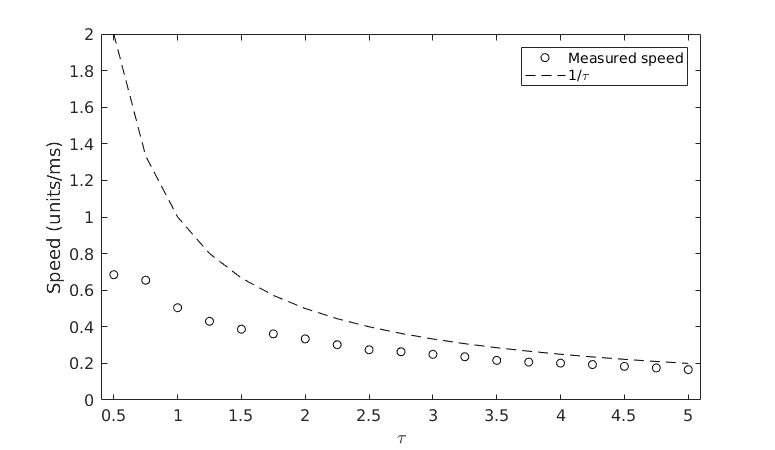
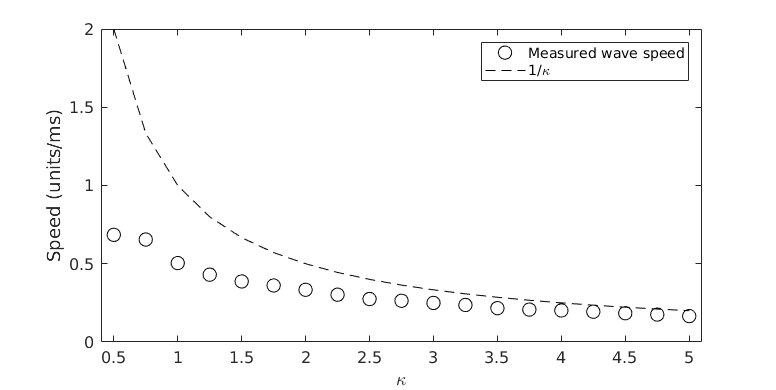
Improved section on wave propagation speed

diff --git a/sync_paper/Delay synchronization.tex b/sync_paper/Delay synchronization.tex
@@ -9,6 +9,7 @@
 \usepackage[font=scriptsize]{subcaption}
 \usepackage{wrapfig}
 \usepackage[backend=biber]{biblatex}
+\usepackage[section]{placeins}
 
 \addbibresource{nn.bib}
 \renewcommand\thesubsection{\alph{subsection}}
@@ -25,7 +26,7 @@
 \begin{abstract}
 Traveling waves of neural activity in the cortex have been observed in vivo.
 These traveling waves explain various features of observed cortical dynamics including spike timing variability and correlated fluctuations in neuron membrane potential.
-To undertand networks of neurons as a medium for wave propagation we explore a one-dimensional network of neurons with biologically influenced models of neuron dynamics and connectivity.
+To understand networks of neurons as a medium for wave propagation we explore a one-dimensional network of neurons with biologically influenced models of neuron dynamics and connectivity.
 We find that background stimulus reliably evokes traveling waves in networks with local connectivity between neurons.
 We also observe traveling waves in fully-connected networks when a model for action potential propagation speed is incorporated.
 The biological properties of the neurons influence the generation, annihilation and propagation of the traveling waves. 
@@ -198,28 +199,15 @@ Finally, we investigate the initiation of traveling waves from a uniform backgro
  \begin{tabularx}{\textwidth}{l | X | c | c | c | c | c | r}
   \textbf{Section} & \textbf{Topology} & \textbf{$\lambda$} & \textbf{E/I} & \textbf{M} & \textbf{K} & \textbf{$\kappa$} \\
   \hline
-  Baseline & $2x2x100$ & $2.5$ & $80\%$ & $5$ & $5$ & $1$ \\ 
-  a & $2x2x100$ & $2.5$ & $80\%$ & $5$ & $\textbf{2-6}$ & $1$ \\ 
-  b & $2x2x100$ & $\infty$ & $80\%$ & $5$ & $5$ & $\textbf{0,1}$ \\ 
-  c & $2x2x100$ & $2.5$ & $\textbf{0-100}\%$ & $5$ & $5$ & $1$ \\ 
-  d & $\textbf{(2x2,2x3,3x3)x100}$ & $2.5$ & $80\%$ & $5$ & $5$ & $\textbf{1-5}$ \\ 
-  e & $2x2x50$ & $2.5$ & $\textbf{80\% , 99+\%}$ & $5$ & $5$ & $1$ \\ 
+  a & $2x2x100$ & $2.5$ & $80\%$ & $5$ & $\textbf{3-12}$ & $1$ \\ 
+  b & $2x2x100$ & $\infty$ & $80\%$ & $5$ & $10$ & $\textbf{0,1}$ \\ 
+  c & $2x2x100$ & $2.5$ & $\textbf{0-100}\%$ & $5$ & $10$ & $1$ \\ 
+  d & $\textbf{(2x2,2x3,3x3)x100}$ & $2.5$ & $80\%$ & $5$ & $24$ & $\textbf{1-5}$ \\ 
+  e & $2x2x50$ & $2.5$ & $\textbf{80\% , 99+\%}$ & $5$ & $10$ & $1$ \\ 
  \end{tabularx}
 \end{table}
 
-We first present a baseline experiment with uniform background stimulus to illustrate wave behavior. 
-The firing events in the experiment are plotted in Figure \ref{fig:baseline}.
-We note the visually well-defined traveling waves in the column, with waves being consistently initiated from approximate column positions 15, 32, 52, 70 and 90.
-The waves propagate until they interact with another traveling wave or reach the ends of the column.
-We observe that traveling waves annihilate each other when they meet.
-The annihilation effects can be explained by the refractory period of the neurons.
-Neurons that are activated by one traveling wave will be hyperpolarized and less likely to fire if another traveling waves arrives within a short time period.
-\begin{figure}[!ht]
- \centering
- \caption{Baseline traveling wave experiment with uniform stimulus.}
- \includegraphics[width=\textwidth]{fig/baseline}
- \label{fig:baseline}
-\end{figure}
+\FloatBarrier
 
 \subsection{Connectivity} \label{sub:connectivity}
 We first investigate the impact of connectivity on traveling wave formation.
@@ -227,7 +215,7 @@ We varied the connection strength parameter $K$ and observed the conditions unde
 We performed 100 simulations each of values of $K$ from $3$ to $12$ and determined the wave firing fraction as described in methods (Figure \ref{fig:conn_fraction}).
 Below $K=3.5$ no traveling waves are detected.
 We observe the transition around $K=5$ where traveling waves are observed but most of the firing events are still random.
-The wave firing fraction is porportional to $K$, indicating that traveling waves dominate the firing activity as the neurons become more strongly connected.
+The wave firing fraction is proportional to $K$, indicating that traveling waves dominate the firing activity as the neurons become more strongly connected.
 At $K>11$ more than $90\%$ of the firing events are part of a traveling wave.
 \begin{figure}[!ht]
  \caption{Traveling waves emerge around $K=5$. As the connection strength increases the traveling waves dominate all firing events in the column.}
@@ -237,7 +225,7 @@ At $K>11$ more than $90\%$ of the firing events are part of a traveling wave.
 \end{figure}
 
 \subsection{Delay} \label{sub:delay}
-To investigate the impact of delay we simulate a column with complete connectivity corresponing to $\lambda \rightarrow \infty$: all neurons are connected with probability 1 to all other neurons.
+To investigate the impact of delay we simulate a column with complete connectivity corresponding to $\lambda \rightarrow \infty$: all neurons are connected with probability 1 to all other neurons.
 This is analogous to the original Izhikevich simulation \cite{izzy_code} that demonstrated synchronized firing in a completely connected neural field with random background stimulus.
 We first simulated the column with a fixed action potential propagation delay of $1~ms$ regardless of inter-neuron distance.
 The result was highly synchronized simultaneous firing among all neurons in the column.
@@ -245,13 +233,15 @@ We then incorporated our distance-dependent action potential propagation with th
 The firing is still highly synchronized, but traveling waves are now evident (Figure \ref{fig:delay_waves}).
 This demonstrates that one dimensional traveling waves can emerge from fully-connected networks if the propagation time is proportional to the inter-neuron distance.
 \begin{figure}[!ht]
- \caption{Left: with global connectivity and no action potential propagation delay, the entire structure shows synchornized firing events. Right: With an action potential propagation delay, traveling wave behavior is observed.}
+ \caption{Left: with global connectivity and no action potential propagation delay, the entire structure shows synchronized firing events. Right: With an action potential propagation delay, traveling wave behavior is observed.}
  \centering
    \includegraphics[width=\textwidth]{fig/DelayWaves}  
  \label{fig:delay_waves}
 \end{figure}
 Previous work (\cite{ermentrout2001}, Figure 1) classifies several architectures for apparent traveling waves in the cortex.
 One architecture, ''Delayed Excitations from a Single Oscillator``, is a periodic source driving a sequence of excitable neurons with increasing time delays, but no connectivity between the neurons.
+
+\FloatBarrier
 
 \subsection{Excitatory/Inhibitory Balance} \label{sub:ei_balance}
 The excitatory/inhibitory balance is known to have a significant impact on neural network dynamics \cite{keane2015}. 
@@ -270,20 +260,76 @@ When all neurons are excitatory the traveling waves are the dominant mode of fir
    \includegraphics[width=\textwidth]{fig/ExcitatoryWaves}
 \end{figure}
 
+\FloatBarrier
+
 \subsection{Propagation speed} \label{sub:propagation_speed}
-To examine the velocity of the traveling waves we performed 50 velocity for measurements for two parameters of interest.
-We varied the propagation delay constant $\kappa$ from (1 to 4) and the cross section of the column (2x2, 2x3, 3x3).
-The results are shown in Figure \ref{fig:delay_topology}.
+Cortical traveling waves have been observed with propagating speeds from 0.1 to 0.8 meters per second \cite{muller2018}.
+The speed of our traveling waves are determined by a variety of factors including action potential delay parameter $\kappa$, characteristic connection length $\lambda$, and the column topology.
+The waves slow down as $\kappa$ increases, they speed up as $\lambda$ increases, and they speed up as the column cross-section increases.
+
+Observed wave speeds in the cortex are consistent with the action potential propagation speed in the gray matter found within the cortex, suggesting that action potential propagation is an important factor determining wave speed.
+In our framework the delay parameter $\kappa$ controls the action potential propagation time. 
+We find that the propagation speed is inversely related to $\kappa$ (Figure \ref{fig:delay_speed}).
+If wave speed was determined solely by the action potential propagation time we would expect the speed to go as $1/\kappa$, but this relationship does not hold.
+Furthermore, the wave speeds seem to be limited to less than 0.7 units/millisecond as $\kappa \rightarrow 0$.
+We suggest that the limit on wave speed is due in part to the neuron dynamics. 
+As we discuss below, our neurons take time to spike after receiving a stimulus that displaces the neuron from equilibrium.
+This inherent delay places a speed limit on the traveling waves.
+
 \begin{figure}[!htb]
- \caption{Wave speed is inversely proportional to $\kappa$ as expected. Wave speed also increases with the column cross-section.Mean values with $1\sigma$ error bars, 50 trials per measurement.}
- \label{fig:delay_topology}
+ \caption{Wave speed (circles) is inversely related to $\kappa$, but does not go as $1/\kappa$ (dashed line). The measured results do approach $1/\kappa$ at higher values. Data is averaged over 100 trials per value of $\kappa$}
+ \label{fig:delay_speed}
  \centering
-   \includegraphics[width=0.75\textwidth]{fig/WaveSpeed_DelayTopology}
+   \includegraphics[width=\textwidth]{fig/WaveSpeed_Delay}
 \end{figure}
 
-We see that both the delay constant and the column topology influence the propagation speed.
-Increasing the inter-neuron action potential delay slows the traveling wave propagation.
-Waves travel faster in columns with larger cross-sections. 
+\FloatBarrier
+
+Propagation speed is also determined by the characteristic length of the local connectivity, $\lambda$.
+We measured wave speeds in a 2x2x50 column with $\kappa=1$  and varied $\lambda$ from 2 to 5.
+At $\lambda<2.5$ traveling waves were not observed.
+Longer ranger connections allow a spike from a presynaptic neuron to elicit spikes from postsynaptic neurons that are farther away (Figure \ref{fig:delay_lambda}).
+This facilitates faster traveling wave propagation.
+QUESTION: why is the slope 1/4, instead of 1??
+\begin{figure}[!htb]
+ \caption{ Wave speed increases with the characteristic local connection length $\lambda$ (circles). .Data is averaged over 20 trials for each value of $\lambda$.}
+ \label{fig:delay_lambda}
+ \centering
+   \includegraphics[width=\textwidth]{fig/WaveSpeed_Lambda}
+\end{figure}
+
+\FloatBarrier
+
+We have found that the topology of the column also influences wave speed. 
+We measured wave speeds in a column with $\kappa=1$ and $\lambda=2.5$ with cross sections from 2x2 to 4x4.
+Waves travel faster in thicker columns with a larger cross-section (Figure \ref{fig:delay_topology}).
+Thicker columns have more neurons and connections per unit length.
+This leads to each neuron receiving a stronger stimulus from the passing wave.
+\begin{figure}[!htb]
+ \caption{ Waves propagate faster in thicker columns. Data is averaged over 10 trials per column topology.}
+ \label{fig:delay_topology}
+ \centering
+   \includegraphics[width=\textwidth]{fig/WaveSpeed_Topology}
+\end{figure}
+
+The input current may push the neuron's dynamical system out of equilibrium and cause a spike, but the system dynamics take some time to evolve.
+Therefore the spike will occur with some delay after the stimulus.
+This is a common behavior in any multidimensional model of neuron dynamics, but it is not captured by the leaky integrate-and-fire model used in much of the previous research \cite{keane2015}\cite{senk2020}.
+We tested this spike delay by exposing populations of excitatory and inhibitory neurons to current steps of different magnitudes \cite{izhikevich}.
+The average firing delay of the excitatory and inhibitory neurons is shown in Figure \ref{fig:delay_neurondynamics}.
+The inhibitory neurons have a lower firing threshold than the excitatory neurons and fire with a shorter delay when given the same stimulus.
+Both excitatory and inhibitory neurons can take over $10ms$ to fire when the spike is elicited by a weak stimulus.
+\begin{figure}[!htb]
+ \caption{ A stronger stimulus creates a spike with less delay. The excitatory neurons have a higher firing threshold than the inhibitory neurons and do not emit a spike for very weak stimulus.}
+ \label{fig:delay_neurondynamics}
+ \centering
+   \includegraphics[width=\textwidth]{fig/WaveSpeed_NeuronDynamics}
+\end{figure}
+
+This explains the correlation between wave speed and column thickness.
+Neurons in the thicker columns receive a stronger stimulus from the passing wave and therefore fire with a shorter delay, leading to faster wave propagation.
+
+\FloatBarrier
 
 \subsection{Wave Initiation and Density} \label{sub:wave_initiation}
 We have observed preferential wave initiation sites in our experiments.
@@ -333,6 +379,7 @@ The wave density at $Z=40$ is the minimum density within the traveling wave, con
    \includegraphics[width=\textwidth]{fig/SingleLTSInhibit}
 \end{figure}
 
+\FloatBarrier
 
 \section{Discussion}
 We have demonstrated that representative neural structures can support traveling waves in one dimension.
@@ -348,7 +395,7 @@ The column topology can also influence the propagation speed.
 Columns with a larger cross-section have a larger number of neurons and synapses for a given length, providing more pathways for the traveling wave to propagate.
 The propagation delay parameter $\kappa$ does effect the wave propagation as expected, but the effect is not linear.
 If the traveling wave velocity was determined by the action potential propagation speed we would expect to see wave velocity of 1000 units/second with $\kappa=1$.
-Instead the wave velocity is less than half the simple prediction (Figure \ref{fig:delay_topology}).
+Instead the wave velocity is less than half the simple prediction (Figure \ref{fig:delay_speed}).
 A four-fold increase in $\kappa$ does not reduce the traveling wave propagation speed by a factor of 4. 
 
 The column topology also has a significant impact on wave propagation speed, with waves in the thinner 2x2 columns traveling about $25\%$ slower than in the 3x3 column.

diff --git a/sim/lsm/FiringDelayTest.m b/sim/lsm/FiringDelayTest.m
@@ -1,0 +1,124 @@
+clear all; close all;
+
+rng(42); %Seed random for consistent results
+
+width = 2;
+height = 2;
+layers = 100;
+N = width*height*layers;
+N_layer = width*height;
+
+%Column parameters
+structure.width = width;
+structure.height = height;
+structure.layers = layers;
+structure.displacement = 0.0;
+
+connectivity.percentExc = 1;
+connectivity.connType = 1;
+connectivity.lambda = 2.5;
+connectivity.maxLength = 100;
+connectivity.connStrength = 0; %Disconnected neurons, we just want the stimulus response
+
+dt = 0.1;
+tmax = 200;
+t = 0:dt:tmax;
+
+delay.delayType = 1;
+delay.delayMult = 1;
+delay.delayFrac = 1.0;
+delay.dt = dt;
+
+vall = []; uall = [];
+
+currentStepMag = 1:15;
+
+%Make column
+[a,b,c,d, S, delays, ecn] = makeColumnParameters(structure, connectivity, delay);
+    
+fdelExc = [];
+for jj=1:length(currentStepMag)
+    %Step stimulus to all neurons at t=100 milliseconds
+    stImpulse = zeros(N, size(t,2));
+    sidx = 100/dt;
+    stImpulse(:, sidx:end)= currentStepMag(jj);
+    stImpulse = (interp1(0:tmax, stImpulse(:,1:1/dt:end)', 0:dt:tmax))';    
+
+    %Simulate column
+    vinit=-65*ones(N,1)+0*rand(N,1);    % Initial values of v
+    uinit=b.*vinit;                 % Initial values of u
+
+    %Column impulse response
+    [v, vall, u, uall, firings] = izzy_net(vinit,uinit,dt, length(t), a, b, c, d, S, delays, stImpulse);
+    figure(5); subplot(2,1,1);
+    plot(firings(:,1)./1000, firings(:,2)/(N_layer),'k.');
+    xlim([0.09 0.12]);
+    ylabel('Z position', 'FontSize', 12)
+    subplot(2,1,2);
+    plot(t./1000, mean(stImpulse), 'kx');
+    xlim([0.09 0.12]);
+    xlabel('Time (seconds)','FontSize',12)
+    ylabel('Input (mV)')
+    set(gca, 'FontSize',12)
+
+    fireDelays = [];
+    for kk=1:N
+        fi = find(firings(:,2)==kk);
+        fi = firings(fi,1);
+        fi = min(fi);
+        if ~isempty(fi)
+           fireDelays = [fireDelays  fi];
+        end
+    end
+    
+    fdelExc(jj) = mean(fireDelays);
+end
+
+%Make column
+connectivity.percentExc = 0; %All inhibitory neurons
+[a,b,c,d, S, delays, ecn] = makeColumnParameters(structure, connectivity, delay);
+    
+fdelInhb = [];
+for jj=1:length(currentStepMag)
+    %Step stimulus to all neurons at t=100 milliseconds
+    stImpulse = zeros(N, size(t,2));
+    sidx = 100/dt;
+    stImpulse(:, sidx:end)= currentStepMag(jj);
+    stImpulse = (interp1(0:tmax, stImpulse(:,1:1/dt:end)', 0:dt:tmax))';    
+
+    %Simulate column
+    vinit=-65*ones(N,1)+0*rand(N,1);    % Initial values of v
+    uinit=b.*vinit;                 % Initial values of u
+
+    %Column impulse response
+    [v, vall, u, uall, firings] = izzy_net(vinit,uinit,dt, length(t), a, b, c, d, S, delays, stImpulse);
+    figure(5); subplot(2,1,1);
+    plot(firings(:,1)./1000, firings(:,2)/(N_layer),'k.');
+    xlim([0.09 0.12]);
+    ylabel('Z position', 'FontSize', 12)
+    subplot(2,1,2);
+    plot(t./1000, mean(stImpulse), 'kx');
+    xlim([0.09 0.12]);
+    xlabel('Time (seconds)','FontSize',12)
+    ylabel('Input (mV)')
+    set(gca, 'FontSize',12)
+
+    fireDelays = [];
+    for kk=1:N
+        fi = find(firings(:,2)==kk);
+        fi = firings(fi,1);
+        fi = min(fi);
+        if ~isempty(fi)
+           fireDelays = [fireDelays  fi];
+        end
+    end
+    
+    fdelInhb(jj) = mean(fireDelays);
+end
+
+figure; 
+plot(currentStepMag, fdelExc-100, 'ko-','MarkerSize', 10);
+hold on; plot(currentStepMag, fdelInhb-100, 'kx--','MarkerSize', 10);
+xlabel('Input step magnitude (mV)'); ylabel('Average delay before firing (ms)');
+legend(['Excitatory neurons'; 'Inhibitory neurons']);
+set(gca,'FontSize', 12);

diff --git a/sim/lsm/WaveSpeed_Lambda.m b/sim/lsm/WaveSpeed_Lambda.m
@@ -6,6 +6,7 @@ width = 2;
 height = 2;
 layers = 50;
 N = width*height*layers;
+N_layer = width*height;
 
 %Column parameters
 structure.width = width;
@@ -32,20 +33,14 @@ waveSizes = []; waveFractions = []; waveSlopes = [];
 
 %figure(20); subplot(3,3,1);
 vall = []; uall = [];
-delayMults = 0.5:0.25:5;
 
-slopesMean = zeros(length(delayMults),1);
-slopesStd = zeros(length(delayMults), 1);
+Ntrials = 20;
+lambdas = 2:0.5:5;
+slopes = NaN(Ntrials, length(lambdas) );
 
-Ntrials = 100;
-slopes = NaN(Ntrials, length(delayMults) );
-for jj=1:length(delayMults)
-    delay_t = delay;
-    delay_t.delayMult = delayMults(jj);
-    structure_t = structure;
-    N = structure_t.width*structure_t.height*layers;
-    N_layer = structure_t.width*structure_t.height;
-
+for jj=1:length(lambdas)
+    connectivity.lambda = lambdas(jj);
+            
     %Impulsive stimulus
     stImpulse = zeros(N, size(t,2))*rand();
     sidx = 1;
@@ -57,7 +52,7 @@ for jj=1:length(delayMults)
     tslope = NaN(1, Ntrials);
     for testIdx = 1:Ntrials
         %Make column
-        [a,b,c,d, S, delays, ecn] = makeColumnParameters(structure_t, connectivity, delay_t);
+        [a,b,c,d, S, delays, ecn] = makeColumnParameters(structure, connectivity, delay);
 
         %Simulate column
         vinit=-65*ones(N,1)+0*rand(N,1);    % Initial values of v
@@ -91,11 +86,10 @@ end
 speed = structure.layers./nanmean(slopes);
 
 figure(6);
-xVals = delayMults;
-plot(xVals, speed,'ko', 'MarkerSize', 10); 
-hold on; plot(delayMults, 1./delayMults, 'k--', 'MarkerSize',10)
+xVals = lambdas;
+plot(xVals, speed,'ko', 'MarkerSize',10); 
 xlim([xVals(1)-0.1 xVals(end)+0.1]);
-xlabel('\kappa')
+xlabel('\lambda')
 ylabel('Speed (units/ms)')
 set(gca,'FontSize',12);
-legend('Measured wave speed', '1/\kappa');
+

diff --git a/sim/lsm/WaveSpeed_Topology.m b/sim/lsm/WaveSpeed_Topology.m
@@ -92,9 +92,9 @@ speed = structure.layers./nanmean(slopes);
 
 figure(6);
 xVals = 1:size(widthHeights,1);
-plot(xVals, speed,'ko'); 
+plot(xVals, speed,'ko', 'MarkerSize', 10); 
 xlim([xVals(1)-0.1 xVals(end)+0.1]);
-xlabel('\tau')
+xlabel('Column width x height')
 xticks(xVals);
 xticklabels({'2x2','2x3','3x3','3x4','4x4'})
 ylabel('Speed (units/ms)')
